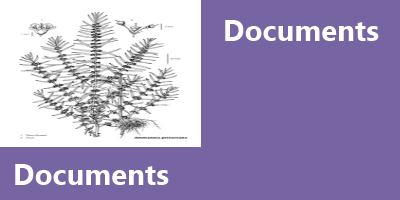
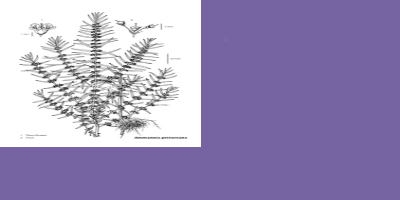
REFS:#255 Images text with css and add multiobservation visible

Changed region(s): [[0.54, 0.09, 0.96, 0.21], [0.03, 0.81, 0.42, 0.93]]

diff --git a/web-app/css/biodiv.css b/web-app/css/biodiv.css
@@ -2627,7 +2627,19 @@ small {
     background-repeat: no-repeat;
     box-shadow: -3px -1px 21px #777777;
     background-size:200% 100%;
+    position: relative;
 }
+#home .content {
+    font-size: 20px;
+    font-weight: bold;
+    text-align: center;
+    color: whitesmoke;
+    position:absolute;
+    bottom: 9px;
+    left: 0px;
+    right: 0px;
+}
+
 .navblock {
     display: inline-block;
     float: left;
